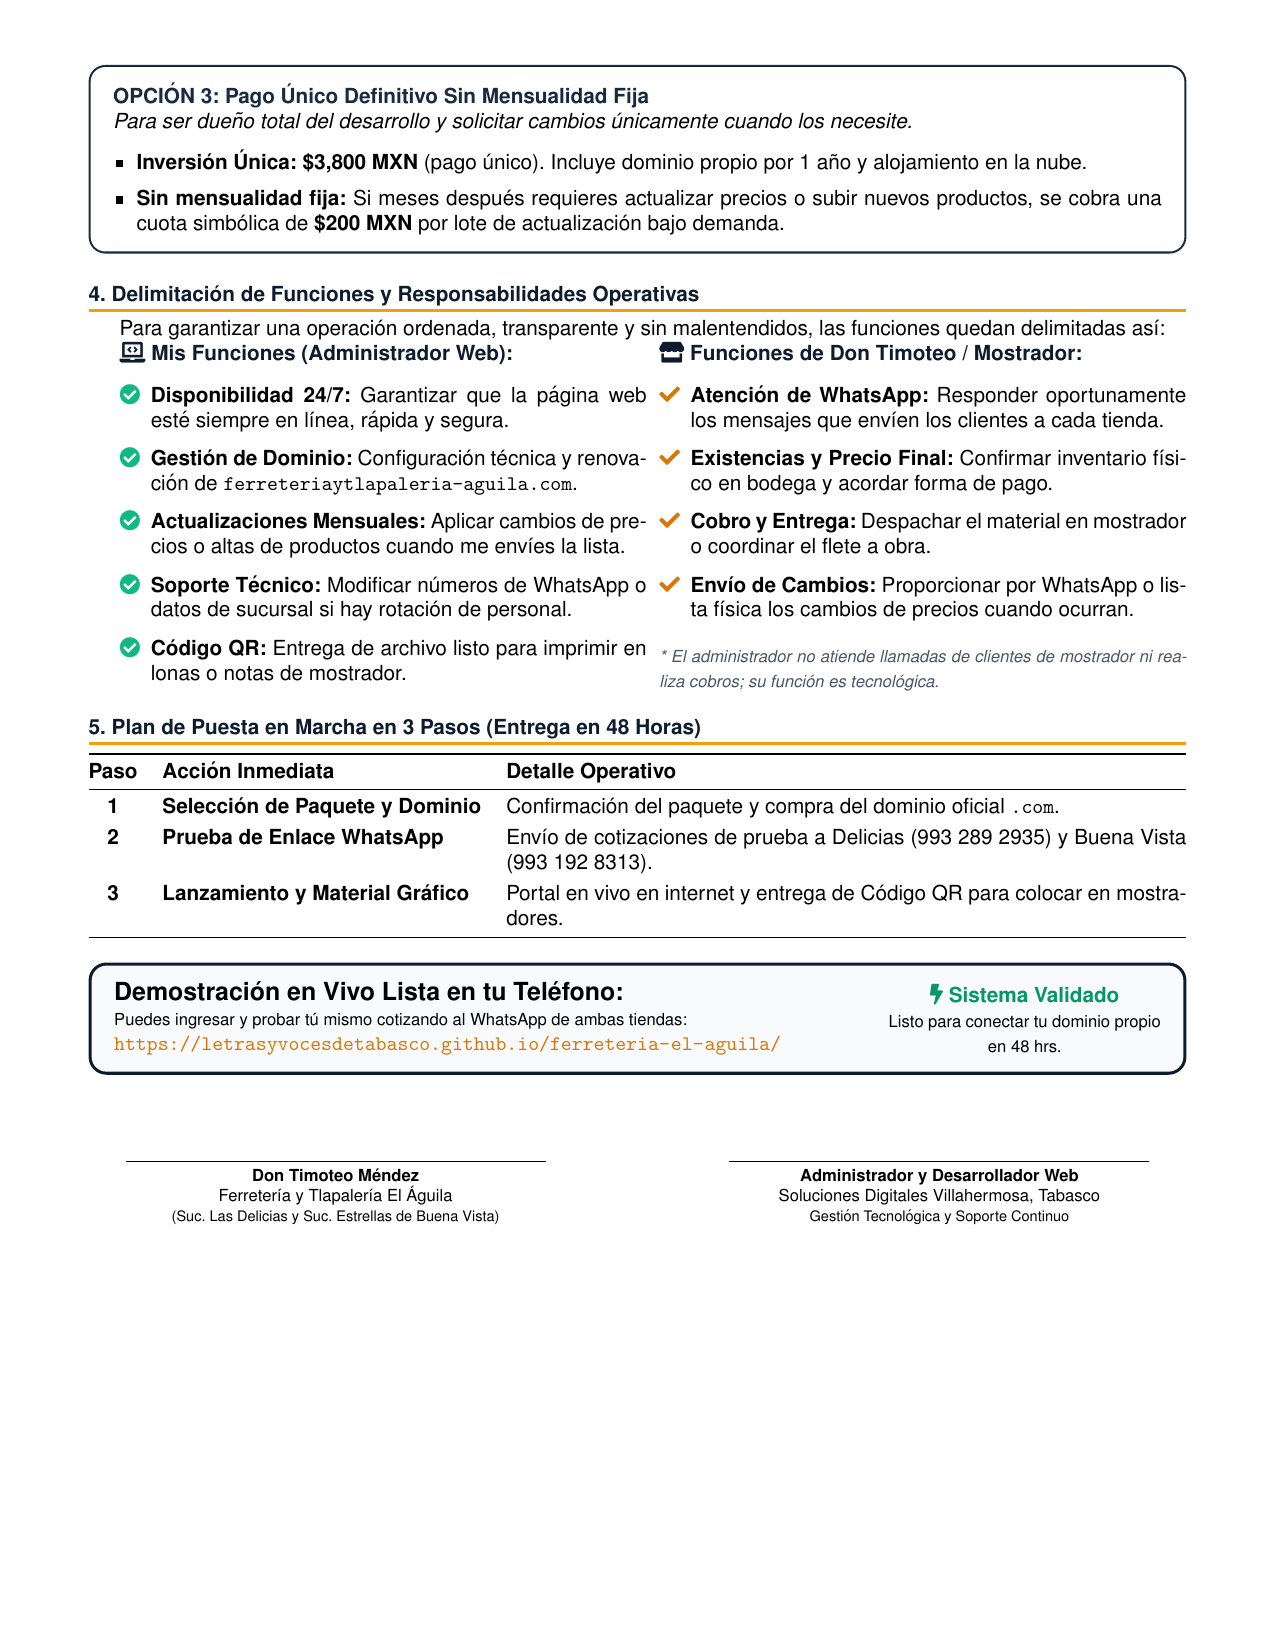
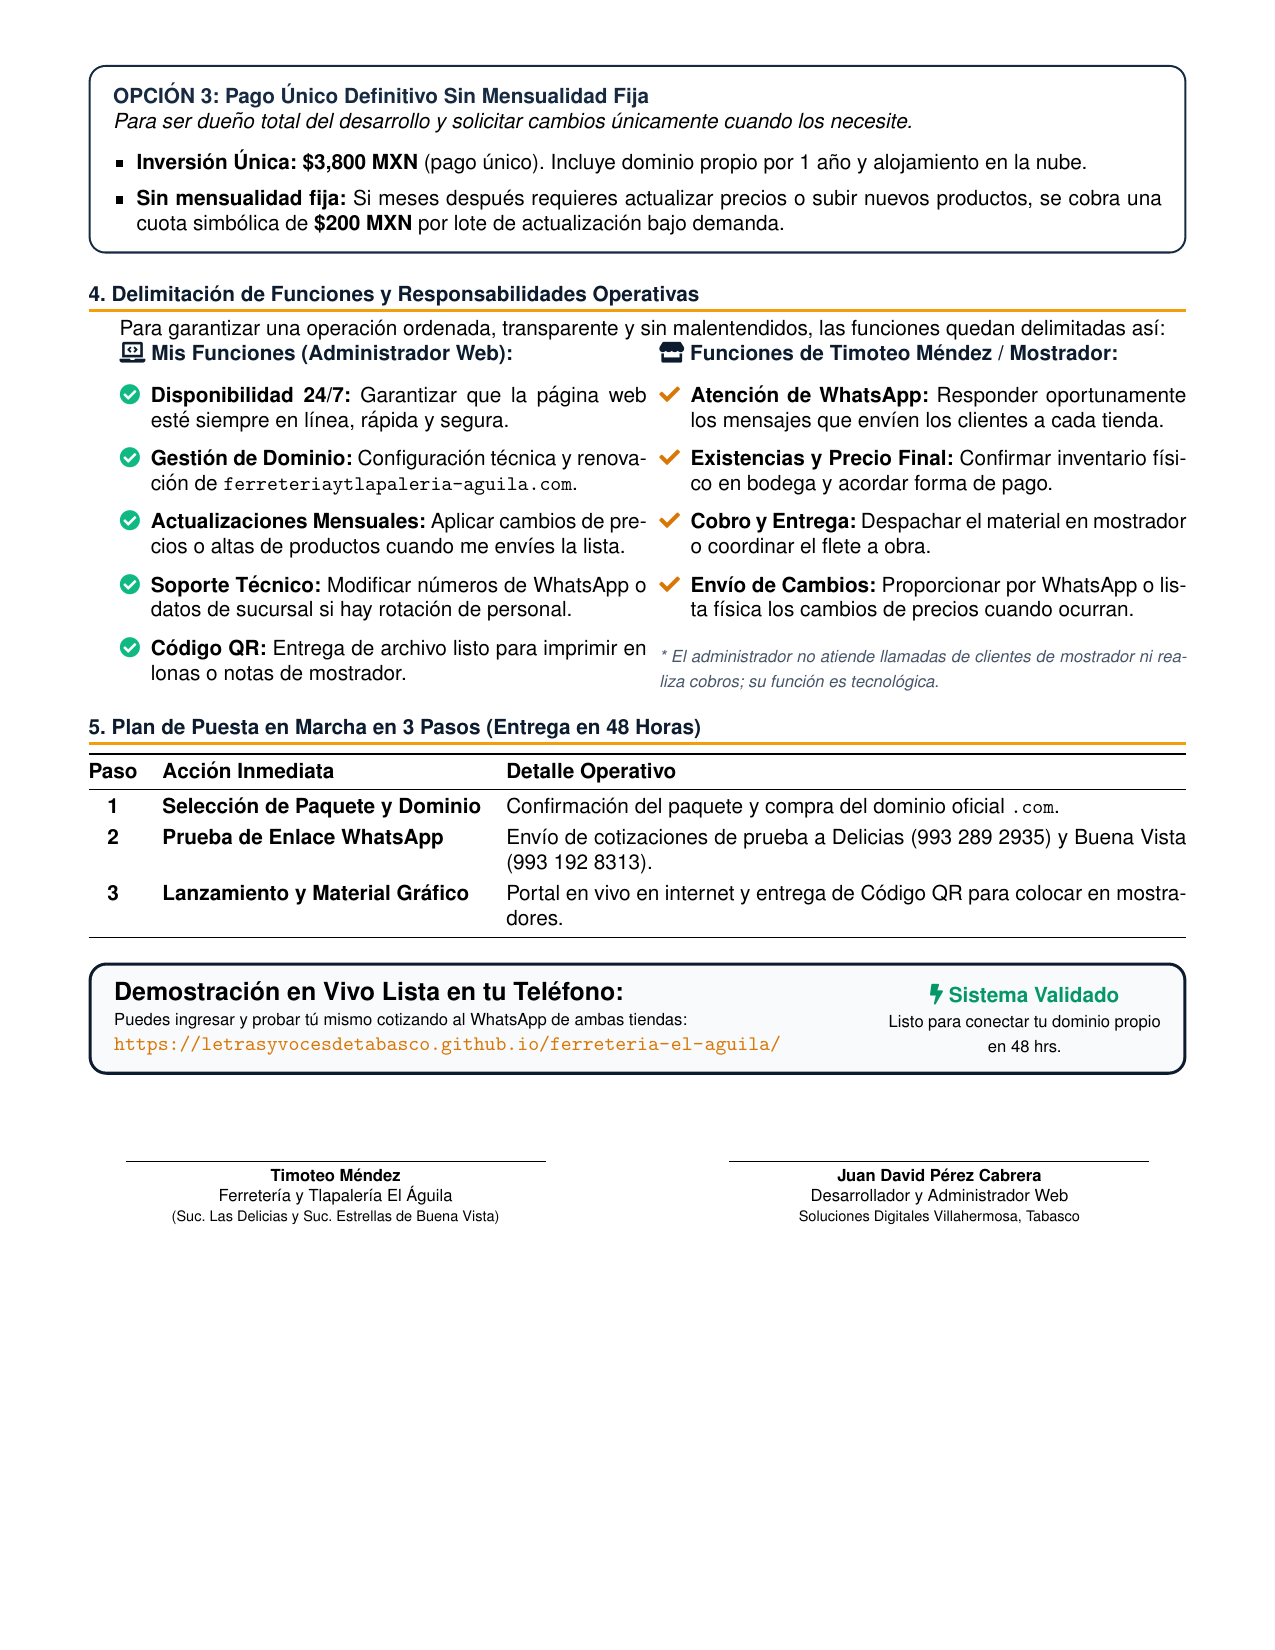
chore: actualizar nombres formales a Timoteo Mendez y Juan David Perez Cabrera

Changed region(s): [[0.6118, 0.7109, 0.8565, 0.7418], [0.6424, 0.1855, 0.8565, 0.2164], [0.2141, 0.7109, 0.3059, 0.7418]]

diff --git a/propuesta_comercial/propuesta_ferreteria_el_aguila.tex b/propuesta_comercial/propuesta_ferreteria_el_aguila.tex
@@ -55,7 +55,7 @@
     \begin{minipage}[c]{0.70\textwidth}
         {\color{white}\large\textbf{PROPUESTA COMERCIAL Y PRESUPUESTO}}\\[1pt]
         {\color{AmberGold}\small\textbf{Plataforma Web y Cotizador WhatsApp para 2 Sucursales}}\\[3pt]
-        {\color{white}\footnotesize\faUserTie\ \textbf{Cliente:} Don Timoteo Méndez $\bullet$ \textbf{Negocio:} Ferretería El Águila}\\
+        {\color{white}\footnotesize\faUserTie\ \textbf{Cliente:} Timoteo Méndez $\bullet$ \textbf{Negocio:} Ferretería El Águila}\\
         {\color{white}\scriptsize\faMapPin\ \textbf{Sucursal 1 (Matriz):} Las Delicias (Av. Revolución 1203 $\bullet$ 993 289 2935)}\\
         {\color{white}\scriptsize\faMapPin\ \textbf{Sucursal 2:} Estrellas de Buena Vista (Carr. La Isla Km 5.300 $\bullet$ 993 192 8313)}
     \end{minipage}
@@ -166,7 +166,7 @@ Para garantizar una operación ordenada, transparente y sin malentendidos, las f
 \end{minipage}
 \hfill
 \begin{minipage}[t]{0.48\textwidth}
-    \textbf{\color{NavyBlue}\faStore\ Funciones de Don Timoteo / Mostrador:}
+    \textbf{\color{NavyBlue}\faStore\ Funciones de Timoteo Méndez / Mostrador:}
     \begin{itemize}[leftmargin=*,itemsep=2.5pt,label={\color{DarkAmber}\faCheck}]
         \item \textbf{Atención de WhatsApp:} Responder oportunamente los mensajes que envíen los clientes a cada tienda.
         \item \textbf{Existencias y Precio Final:} Confirmar inventario físico en bodega y acordar forma de pago.
@@ -222,7 +222,7 @@ Para garantizar una operación ordenada, transparente y sin malentendidos, las f
     \centering
     \vspace{0.7cm}
     \rule{0.85\textwidth}{0.6pt}\\
-    \footnotesize\textbf{Don Timoteo Méndez}\\
+    \footnotesize\textbf{Timoteo Méndez}\\
     Ferretería y Tlapalería El Águila\\
     {\scriptsize (Suc. Las Delicias y Suc. Estrellas de Buena Vista)}
 \end{minipage}
@@ -231,9 +231,9 @@ Para garantizar una operación ordenada, transparente y sin malentendidos, las f
     \centering
     \vspace{0.7cm}
     \rule{0.85\textwidth}{0.6pt}\\
-    \footnotesize\textbf{Administrador y Desarrollador Web}\\
-    Soluciones Digitales Villahermosa, Tabasco\\
-    {\scriptsize Gestión Tecnológica y Soporte Continuo}
+    \footnotesize\textbf{Juan David Pérez Cabrera}\\
+    Desarrollador y Administrador Web\\
+    {\scriptsize Soluciones Digitales Villahermosa, Tabasco}
 \end{minipage}
 
 \end{document}
